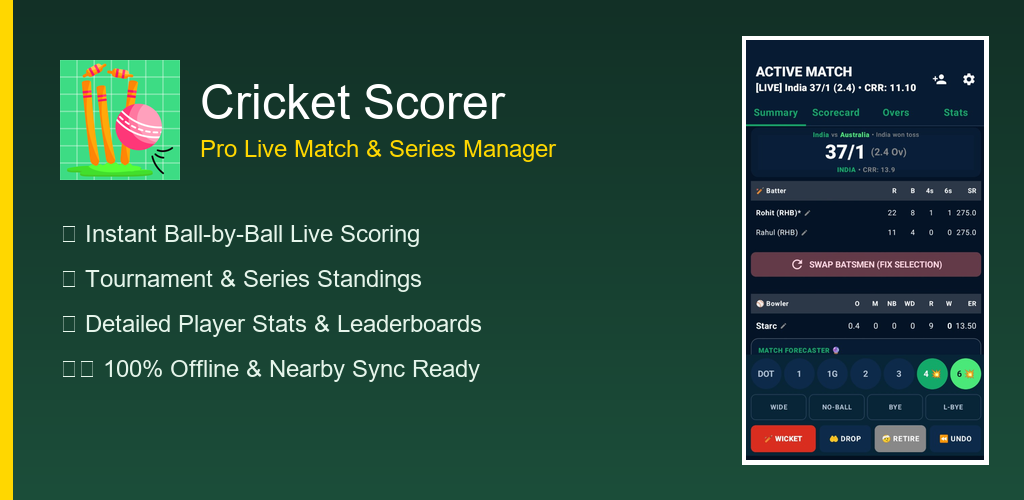
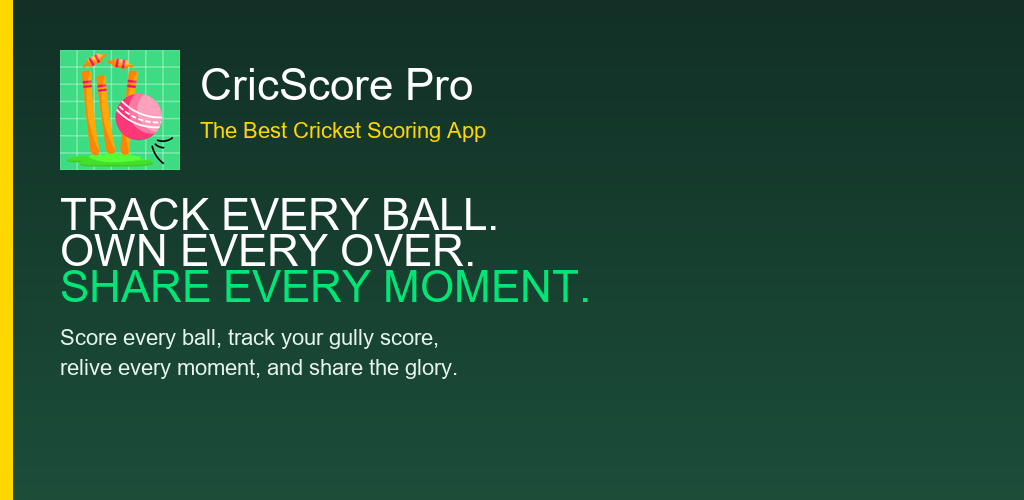
v2.33.40

diff --git a/app/src/main/kotlin/in/nrkmart/cricscore/HomeScreen.kt b/app/src/main/kotlin/in/nrkmart/cricscore/HomeScreen.kt
@@ -2,8 +2,10 @@ package `in`.nrkmart.cricscore
 
 import android.content.Context
 import android.location.LocationManager
+import android.os.Build
 import android.widget.Toast
 import androidx.compose.foundation.BorderStroke
+import androidx.compose.foundation.Image
 import androidx.compose.foundation.background
 import androidx.compose.foundation.clickable
 import androidx.compose.foundation.layout.*
@@ -14,6 +16,7 @@ import androidx.compose.foundation.shape.RoundedCornerShape
 import androidx.compose.foundation.rememberScrollState
 import androidx.compose.foundation.verticalScroll
 import androidx.compose.material.icons.Icons
+import androidx.compose.material.icons.filled.Info
 import androidx.compose.material.icons.filled.KeyboardArrowDown
 import androidx.compose.material.icons.filled.KeyboardArrowUp
 import androidx.compose.material.icons.filled.Refresh
@@ -24,10 +27,41 @@ import androidx.compose.ui.Alignment
 import androidx.compose.ui.Modifier
 import androidx.compose.ui.graphics.Color
 import androidx.compose.ui.platform.LocalContext
+import androidx.compose.ui.res.painterResource
 import androidx.compose.ui.text.font.FontWeight
+import androidx.compose.ui.text.style.TextAlign
 import androidx.compose.ui.unit.dp
 import androidx.compose.ui.unit.sp
 import `in`.nrkmart.cricscore.ui.CardBranding
+import java.util.UUID
+
+private fun handleToggleNearbySync(context: Context, viewModel: ScoringViewModel, enable: Boolean, match: Match? = null) {
+    if (enable) {
+        val locationManager = context.getSystemService(Context.LOCATION_SERVICE) as LocationManager
+        val isGpsEnabled = locationManager.isProviderEnabled(LocationManager.GPS_PROVIDER)
+        val isNetworkEnabled = locationManager.isProviderEnabled(LocationManager.NETWORK_PROVIDER)
+        
+        if (!isGpsEnabled && !isNetworkEnabled) {
+            Toast.makeText(context, "Please turn on GPS/Location to use Nearby Sync 📍", Toast.LENGTH_LONG).show()
+            return
+        }
+        
+        viewModel.toggleSync(true)
+        NearbyManager.startSync(context, "CricScore: " + Build.MODEL)
+        if (match != null) {
+            val tournament = TournamentRepository.getTournament(match.tournamentId ?: "") ?: Tournament(id = UUID.randomUUID().toString(), name = "Match", matches = listOf(match))
+            NearbyManager.broadcastTournament(context, tournament)
+            NearbyManager.broadcastMatch(context, match)
+            Toast.makeText(context, "Nearby Live Match Sync Active! 📡⚡", Toast.LENGTH_SHORT).show()
+        } else {
+            Toast.makeText(context, "Nearby Sync Active! 📡⚡", Toast.LENGTH_SHORT).show()
+        }
+    } else {
+        viewModel.toggleSync(false)
+        NearbyManager.stopAll(context)
+        Toast.makeText(context, "Nearby Sync Stopped 🛑", Toast.LENGTH_SHORT).show()
+    }
+}
 
 @OptIn(ExperimentalMaterial3Api::class)
 @Composable
@@ -42,7 +76,11 @@ fun HomeScreen(
 ) {
     val tournaments by TournamentRepository.tournaments.collectAsState()
     val liveMatch = tournaments.flatMap { it.matches }.find { it.status == MatchStatus.LIVE }
+    val isSyncEnabled by viewModel.isSyncEnabled.collectAsState()
+    val connectedEndpoints by NearbyManager.connectedEndpoints.collectAsState()
     var showSettings by remember { mutableStateOf(false) }
+    var showAboutDialog by remember { mutableStateOf(false) }
+    var showSyncSheet by remember { mutableStateOf(false) }
     val context = LocalContext.current
 
     Scaffold(
@@ -56,6 +94,41 @@ fun HomeScreen(
                     )
                 },
                 actions = {
+                    Surface(
+                        onClick = { showSyncSheet = true },
+                        shape = RoundedCornerShape(16.dp),
+                        color = if (isSyncEnabled) MaterialTheme.colorScheme.secondaryContainer else MaterialTheme.colorScheme.surfaceVariant,
+                        border = BorderStroke(0.5.dp, if (isSyncEnabled) MaterialTheme.colorScheme.secondary else MaterialTheme.colorScheme.outlineVariant),
+                        modifier = Modifier.padding(end = 4.dp)
+                    ) {
+                        Row(
+                            modifier = Modifier.padding(horizontal = 8.dp, vertical = 4.dp),
+                            verticalAlignment = Alignment.CenterVertically
+                        ) {
+                            Surface(
+                                modifier = Modifier.size(8.dp),
+                                shape = CircleShape,
+                                color = if (isSyncEnabled) MaterialTheme.colorScheme.secondary else Color.Gray
+                            ) {}
+                            Spacer(Modifier.width(6.dp))
+                            Text(
+                                text = if (isSyncEnabled) {
+                                    if (connectedEndpoints.isNotEmpty()) "SYNC (${connectedEndpoints.size})" else "SYNC ON"
+                                } else "SYNC OFF",
+                                style = MaterialTheme.typography.labelSmall,
+                                fontWeight = FontWeight.Bold,
+                                color = if (isSyncEnabled) MaterialTheme.colorScheme.secondary else MaterialTheme.colorScheme.onSurfaceVariant
+                            )
+                        }
+                    }
+
+                    IconButton(onClick = { showAboutDialog = true }) {
+                        Icon(
+                            imageVector = Icons.Default.Info,
+                            contentDescription = "About CricScore Pro",
+                            tint = MaterialTheme.colorScheme.primary
+                        )
+                    }
                     IconButton(onClick = { showSettings = true }) {
                         Icon(Icons.Default.Settings, contentDescription = "Settings")
                     }
@@ -147,14 +220,81 @@ fun HomeScreen(
                                 
                                 Spacer(modifier = Modifier.height(20.dp))
                                 
-                                Button(
-                                    onClick = { onNavigateToLiveScoring(liveMatch) },
-                                    modifier = Modifier.fillMaxWidth().height(48.dp),
-                                    shape = RoundedCornerShape(12.dp)
+                                Row(
+                                    modifier = Modifier.fillMaxWidth(),
+                                    horizontalArrangement = Arrangement.spacedBy(8.dp)
                                 ) {
-                                    Text("CONTINUE SCORING", fontWeight = FontWeight.Black)
+                                    Button(
+                                        onClick = { onNavigateToLiveScoring(liveMatch) },
+                                        modifier = Modifier.weight(1f).height(48.dp),
+                                        shape = RoundedCornerShape(12.dp)
+                                    ) {
+                                        Text("CONTINUE SCORING", fontWeight = FontWeight.Black)
+                                    }
+
+                                    OutlinedButton(
+                                        onClick = {
+                                            handleToggleNearbySync(context, viewModel, !isSyncEnabled, liveMatch)
+                                        },
+                                        modifier = Modifier.height(48.dp),
+                                        shape = RoundedCornerShape(12.dp),
+                                        colors = ButtonDefaults.outlinedButtonColors(
+                                            contentColor = if (isSyncEnabled) MaterialTheme.colorScheme.secondary else MaterialTheme.colorScheme.primary
+                                        ),
+                                        border = BorderStroke(1.dp, if (isSyncEnabled) MaterialTheme.colorScheme.secondary else MaterialTheme.colorScheme.primary)
+                                    ) {
+                                        Row(verticalAlignment = Alignment.CenterVertically) {
+                                            Surface(
+                                                modifier = Modifier.size(8.dp),
+                                                shape = CircleShape,
+                                                color = if (isSyncEnabled) MaterialTheme.colorScheme.secondary else Color.Gray
+                                            ) {}
+                                            Spacer(Modifier.width(6.dp))
+                                            Text(
+                                                text = if (isSyncEnabled) "BROADCASTING" else "BROADCAST LIVE",
+                                                fontWeight = FontWeight.Bold
+                                            )
+                                        }
+                                    }
                                 }
                             }
+                        }
+                    }
+                }
+
+                // Highlighted Motto / Brand Banner
+                item {
+                    Card(
+                        modifier = Modifier
+                            .padding(start = 16.dp, end = 16.dp, top = 16.dp, bottom = 4.dp)
+                            .fillMaxWidth(),
+                        colors = CardDefaults.cardColors(containerColor = MaterialTheme.colorScheme.primaryContainer),
+                        shape = RoundedCornerShape(16.dp),
+                        elevation = CardDefaults.cardElevation(defaultElevation = 2.dp),
+                        border = BorderStroke(0.5.dp, MaterialTheme.colorScheme.primary.copy(alpha = 0.3f))
+                    ) {
+                        Column(
+                            modifier = Modifier
+                                .fillMaxWidth()
+                                .padding(horizontal = 16.dp, vertical = 14.dp),
+                            horizontalAlignment = Alignment.CenterHorizontally,
+                            verticalArrangement = Arrangement.spacedBy(6.dp)
+                        ) {
+                            Text(
+                                text = "TRACK EVERY BALL.\nOWN EVERY OVER.\nSHARE EVERY MOMENT.",
+                                style = MaterialTheme.typography.titleMedium.copy(lineHeight = 22.sp),
+                                fontWeight = FontWeight.Black,
+                                color = MaterialTheme.colorScheme.onPrimaryContainer,
+                                letterSpacing = 0.5.sp,
+                                textAlign = TextAlign.Center
+                            )
+                            Text(
+                                text = "The best cricket scoring app for your matches. Score every ball, track your gully cricket score, relive every moment, and share the glory.",
+                                style = MaterialTheme.typography.bodySmall,
+                                fontWeight = FontWeight.Medium,
+                                color = MaterialTheme.colorScheme.onPrimaryContainer.copy(alpha = 0.85f),
+                                textAlign = TextAlign.Center
+                            )
                         }
                     }
                 }
@@ -162,7 +302,7 @@ fun HomeScreen(
                 item {
                     Text(
                         "QUICK START",
-                        modifier = Modifier.padding(16.dp),
+                        modifier = Modifier.padding(start = 16.dp, end = 16.dp, top = 12.dp, bottom = 8.dp),
                         style = MaterialTheme.typography.labelMedium,
                         fontWeight = FontWeight.Black,
                         color = MaterialTheme.colorScheme.primary
@@ -342,6 +482,122 @@ fun HomeScreen(
                     confirmButton = {
                         TextButton(onClick = { showSettings = false }) {
                             Text("DONE", fontWeight = FontWeight.Black)
+                        }
+                    }
+                )
+            }
+
+            if (showAboutDialog) {
+                AlertDialog(
+                    onDismissRequest = { showAboutDialog = false },
+                    confirmButton = {
+                        Button(
+                            onClick = { showAboutDialog = false },
+                            modifier = Modifier.fillMaxWidth(),
+                            shape = RoundedCornerShape(10.dp)
+                        ) {
+                            Text("DISMISS", fontWeight = FontWeight.Bold)
+                        }
+                    },
+                    title = null,
+                    text = {
+                        Column(
+                            modifier = Modifier
+                                .fillMaxWidth()
+                                .verticalScroll(rememberScrollState()),
+                            horizontalAlignment = Alignment.CenterHorizontally,
+                            verticalArrangement = Arrangement.spacedBy(12.dp)
+                        ) {
+                            Spacer(Modifier.height(4.dp))
+                            Surface(
+                                modifier = Modifier.size(72.dp),
+                                shape = CircleShape,
+                                color = MaterialTheme.colorScheme.primaryContainer,
+                                shadowElevation = 4.dp
+                            ) {
+                                Box(contentAlignment = Alignment.Center) {
+                                    Image(
+                                        painter = painterResource(id = R.mipmap.ic_launcher_foreground),
+                                        contentDescription = "CricScore Pro Icon",
+                                        modifier = Modifier.size(64.dp)
+                                    )
+                                }
+                            }
+
+                            Column(horizontalAlignment = Alignment.CenterHorizontally) {
+                                Text(
+                                    text = "CricScore Pro",
+                                    style = MaterialTheme.typography.titleLarge,
+                                    fontWeight = FontWeight.Black
+                                )
+                                Surface(
+                                    color = MaterialTheme.colorScheme.secondaryContainer,
+                                    shape = RoundedCornerShape(12.dp),
+                                    modifier = Modifier.padding(top = 4.dp)
+                                ) {
+                                    Text(
+                                        text = "v${BuildConfig.VERSION_NAME}",
+                                        style = MaterialTheme.typography.labelMedium,
+                                        fontWeight = FontWeight.Bold,
+                                        color = MaterialTheme.colorScheme.onSecondaryContainer,
+                                        modifier = Modifier.padding(horizontal = 8.dp, vertical = 2.dp)
+                                    )
+                                }
+                                Spacer(Modifier.height(6.dp))
+                                Text(
+                                    text = "Track every ball. Own every over. Share every moment.",
+                                    style = MaterialTheme.typography.bodySmall,
+                                    fontWeight = FontWeight.Medium,
+                                    color = Color.Gray,
+                                    textAlign = TextAlign.Center
+                                )
+                            }
+
+                            HorizontalDivider(thickness = 0.5.dp, color = MaterialTheme.colorScheme.outlineVariant)
+
+                            Card(
+                                colors = CardDefaults.cardColors(containerColor = MaterialTheme.colorScheme.primaryContainer),
+                                shape = RoundedCornerShape(12.dp),
+                                modifier = Modifier.fillMaxWidth()
+                            ) {
+                                Box(
+                                    modifier = Modifier
+                                        .fillMaxWidth()
+                                        .padding(12.dp),
+                                    contentAlignment = Alignment.Center
+                                ) {
+                                    Text(
+                                        text = "TRACK EVERY BALL.\nOWN EVERY OVER.\nSHARE EVERY MOMENT.",
+                                        style = MaterialTheme.typography.labelLarge.copy(lineHeight = 18.sp),
+                                        fontWeight = FontWeight.Black,
+                                        color = MaterialTheme.colorScheme.onPrimaryContainer,
+                                        letterSpacing = 0.5.sp,
+                                        textAlign = TextAlign.Center
+                                    )
+                                }
+                            }
+
+                            Text(
+                                text = "The best cricket scoring app for your matches. Score every ball, track your gully cricket score, relive every moment, and share the glory.",
+                                style = MaterialTheme.typography.bodyMedium,
+                                color = MaterialTheme.colorScheme.onSurfaceVariant,
+                                lineHeight = 20.sp,
+                                textAlign = TextAlign.Center
+                            )
+
+                            Row(
+                                modifier = Modifier.fillMaxWidth(),
+                                horizontalArrangement = Arrangement.SpaceEvenly
+                            ) {
+                                SuggestionChip(
+                                    onClick = {},
+                                    label = { Text("⚡ Ball-by-Ball") }
+                                )
+                                SuggestionChip(
+                                    onClick = {},
+                                    label = { Text("📲 Nearby Sync") }
+                                )
+                            }
                         }
                     }
                 )
